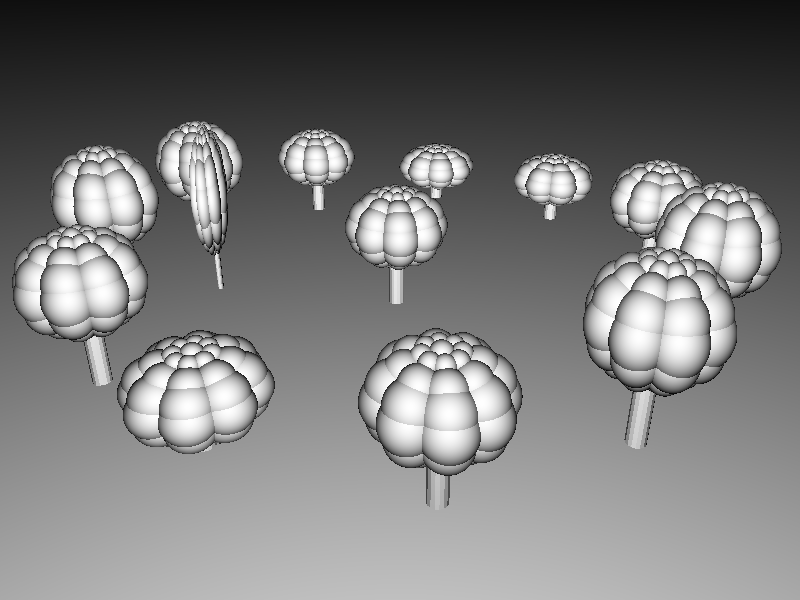
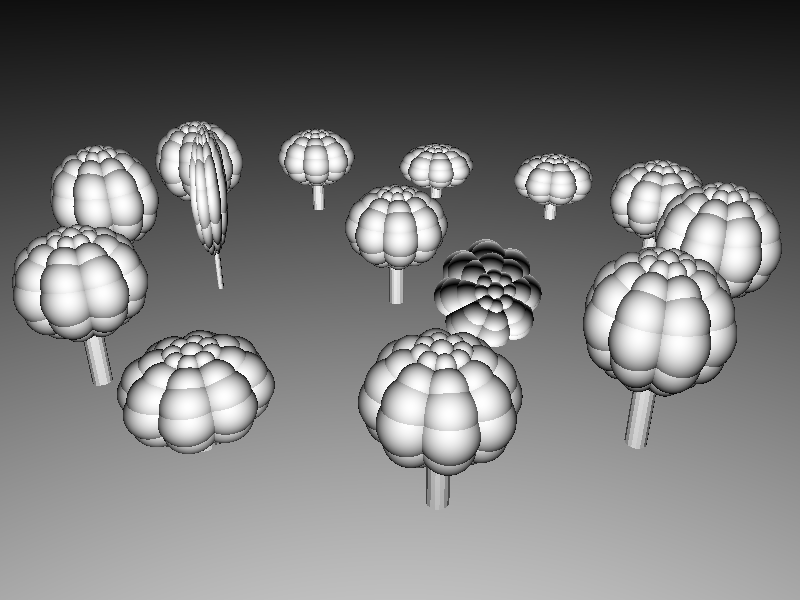
Some bug fix, not working fully.

Changed region(s): [[0.5312, 0.39, 0.6875, 0.6]]

diff --git a/rt/primmod/instance.cpp b/rt/primmod/instance.cpp
@@ -28,34 +28,35 @@ namespace rt {
 	{
 		Vector originalTranslation = Vector(transformation[0][3], transformation[1][3], transformation[2][3]);
 		Vector sDash;
-		if (fabs(axis.x) < fabs(axis.y))
+		Vector r = axis.normalize();
+		if (fabs(r.x) < fabs(r.y))
 		{
-			if (fabs(axis.x) < fabs(axis.z))
+			if (fabs(r.x) < fabs(r.z))
 			{
-				sDash = Vector(0, -axis.z, axis.y);
+				sDash = Vector(0, -r.z, r.y);
 			}
 			else
 			{
-				sDash = Vector(-axis.y, axis.x, 0);
+				sDash = Vector(-r.y, r.x, 0);
 			}
 		}
 		else
 		{
-			if (fabs(axis.y) < fabs(axis.z))
+			if (fabs(r.y) < fabs(r.z))
 			{
-				sDash = Vector(-axis.z, 0, axis.x);
+				sDash = Vector(-r.z, 0, r.x);
 			}
 
 			else
 			{
-				sDash = Vector(-axis.y, axis.x, 0);
+				sDash = Vector(-r.y, r.x, 0);
 			}
 		}
 		Vector s = sDash.normalize();
-		Vector t = cross(axis, s);
-		Matrix M = Matrix(Float4(axis.x, s.x, t.x, 0),
-						  Float4(axis.y, s.y, t.y, 0),
-						  Float4(axis.z, s.z, t.z, 0),
+		Vector t = cross(r, s).normalize();
+		Matrix M = Matrix(Float4(r.x, s.x, t.x, 0),
+						  Float4(r.y, s.y, t.y, 0),
+						  Float4(r.z, s.z, t.z, 0),
 						  Float4(0, 0, 0, 1));
 
 		Matrix Rx = Matrix(Float4(1, 0, 0, 0),
@@ -63,10 +64,14 @@ namespace rt {
 			Float4(0, sin(angle), cos(angle), 0),
 			Float4(0, 0, 0, 1));
 
-		Matrix FullR = product(M, product(Rx, M.transpose()));
-		this->translate(-originalTranslation);
-		transformation = product(FullR, transformation);
-		this->translate(originalTranslation);
+		transformation = product(M.transpose(), transformation);
+		transformation = product(Rx, transformation);
+		transformation = product(M, transformation);
+
+		//Matrix FullR = product(M, product(Rx, M.transpose()));
+		//this->translate(-originalTranslation);
+		//transformation = product(FullR, transformation);
+		//this->translate(originalTranslation);
 	}
 
 	void Instance::scale(float scale)

diff --git a/core/matrix.cpp b/core/matrix.cpp
@@ -56,18 +56,16 @@ namespace rt {
 
 	Matrix Matrix::transpose() const
 	{
+		Matrix result;
+
 		for (int rowIndex = 0; rowIndex < 4; rowIndex++)
 		{
-			for (int colIndex = rowIndex; colIndex < 4; colIndex++)
+			for (int colIndex = 0; colIndex < 4; colIndex++)
 			{
-				if (rowIndex == colIndex)
-					continue;
-				float originalValue = (*this)[rowIndex][colIndex];
-				(*this)[rowIndex][colIndex] = (*this)[colIndex][rowIndex];
-				(*this)[colIndex][rowIndex] = originalValue;
+				result[rowIndex][colIndex] = (*this)[colIndex][rowIndex];
 			}
 		}
-		return *this;
+		return result;
 	}
 
 	Matrix Matrix::invert() const {
